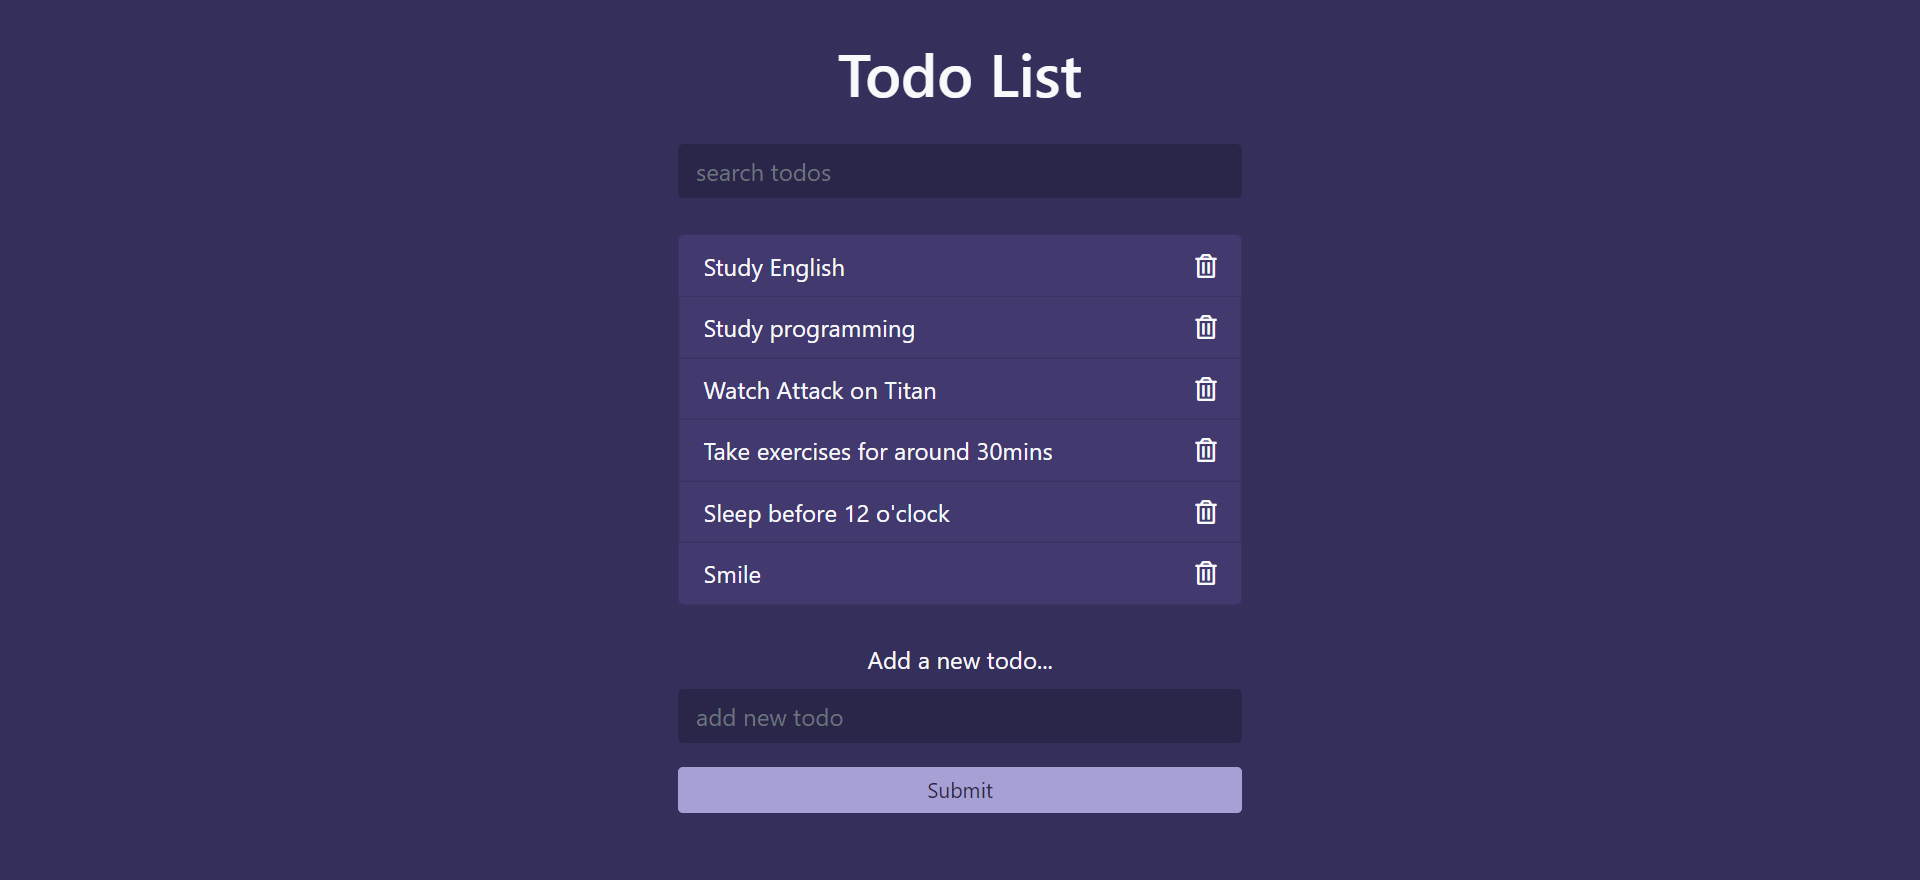
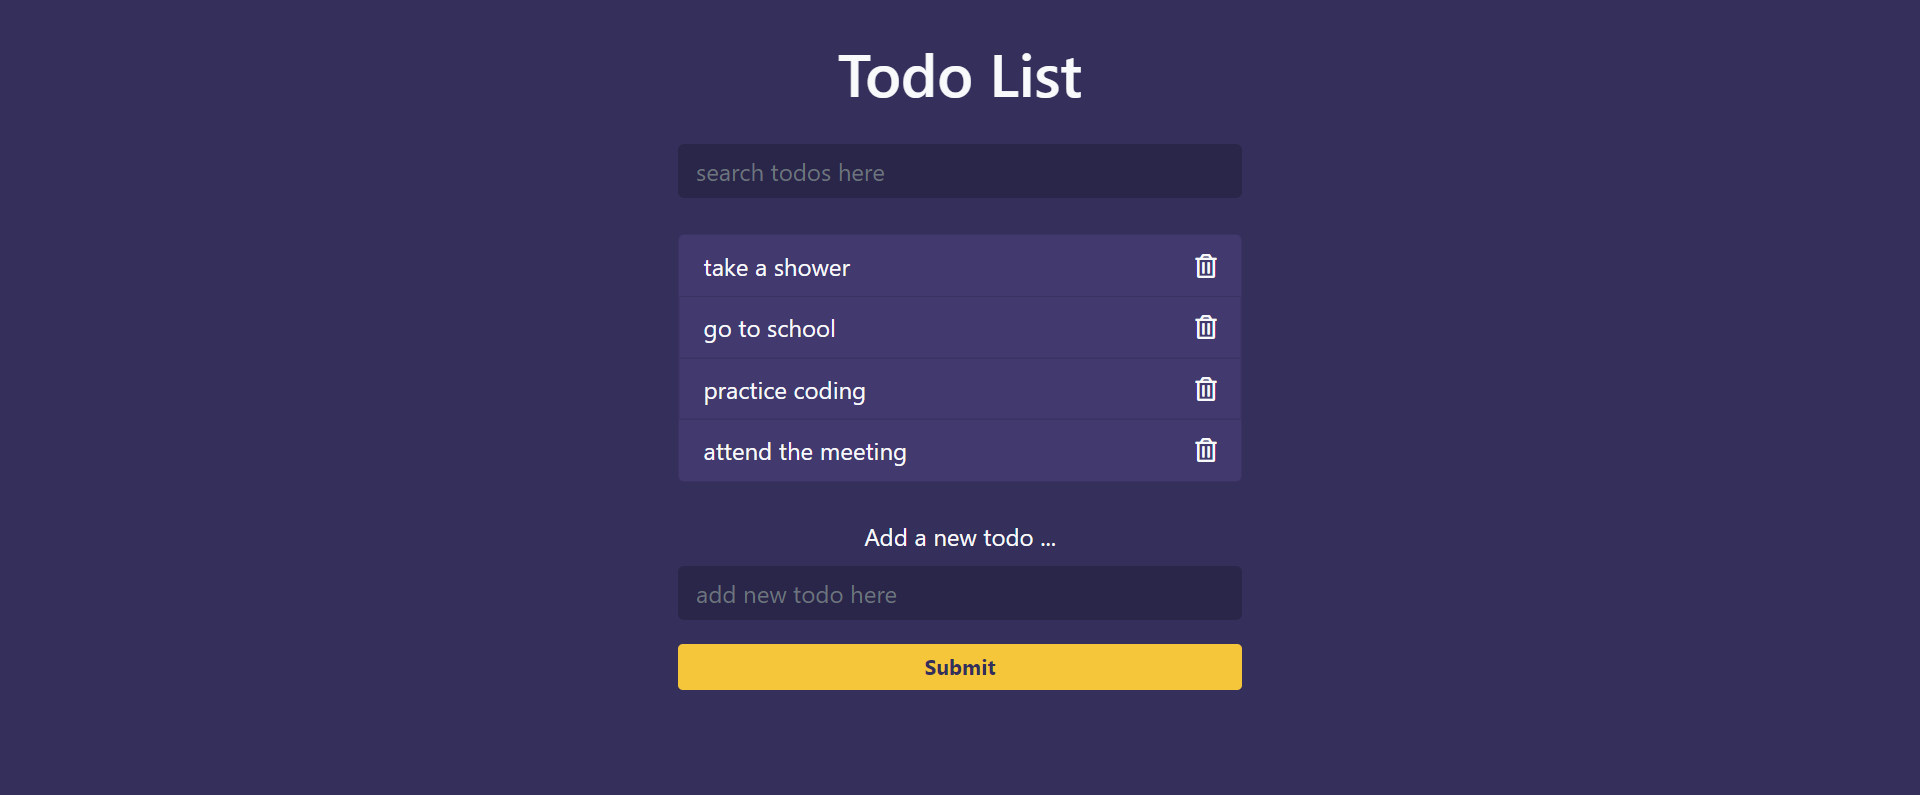
changed the color of the submit button

diff --git a/index.html b/index.html
@@ -8,7 +8,7 @@
     <!-- CSS only -->
     <link href="https://cdn.jsdelivr.net/npm/bootstrap@5.1.3/dist/css/bootstrap.min.css" rel="stylesheet" integrity="sha384-1BmE4kWBq78iYhFldvKuhfTAU6auU8tT94WrHftjDbrCEXSU1oBoqyl2QvZ6jIW3" crossorigin="anonymous">
     <link rel="stylesheet" href="styles.css">
-    <title>Document</title>
+    <title>Todo</title>
 </head>
 <body>
 
@@ -16,41 +16,20 @@
         <header class="text-center text-light my-4">
             <h1 class="mb-4">Todo List</h1>
             <form class="search">
-                <input class="form-control m-auto" placeholder="search todos" type="text" name="" id="">
+                <input class="form-control m-auto" placeholder="search todos here" type="text" name="" id="">
             </form>
         </header>
 
-        <ul class="list-group todos">
-            <li class="list-group-item d-flex justify-content-between text-light align-items-center">
-                <span>Study English</span>
-                <i class="far fa-trash-alt delete"></i>
-            </li>
-            <li class="list-group-item d-flex justify-content-between text-light align-items-center">
-                <span>Study Programming</span>
-                <i class="far fa-trash-alt delete"></i>
-            </li>
-            <li class="list-group-item d-flex justify-content-between text-light align-items-center">
-                <span>Watch Attack on Titan</span>
-                <i class="far fa-trash-alt delete"></i>
-            </li>
-            <li class="list-group-item d-flex justify-content-between text-light align-items-center">
-                <span>Take exercises for around 30mins</span>
-                <i class="far fa-trash-alt delete"></i>
-            </li>
-            <li class="list-group-item d-flex justify-content-between text-light align-items-center">
-                <span>Sleep before 12 o'clock</span>
-                <i class="far fa-trash-alt delete"></i>
-            </li>
-            <li class="list-group-item d-flex justify-content-between text-light align-items-center">
-                <span>Smile</span>
-                <i class="far fa-trash-alt delete"></i>
+        <ul class="list-group todos my-2">
+            <li class="list-group-item d-flex justify-content-between text-light align-items-center intro-list">
+                <span>Your todos will list here</span>
             </li>
         </ul>
 
         <form class="add text-center my-4">
-            <label class="text-light mb-2">Add a new todo...</label>
-            <input class="form-control m-auto" type="text" name="add" id="" placeholder="add new todo">
-            <div class=" d-grid ">
+            <label class="text-light mb-2">Add a new todo ...</label>
+            <input class="form-control m-auto" type="text" name="add" id="" placeholder="add new todo here">
+            <div class="d-grid">
                 <input class="btn btn-sm my-3" type="submit">
             </div>
         </form>

diff --git a/script.js b/script.js
@@ -1,6 +1,8 @@
 let add_todo = document.querySelector(".add");
 let todo_list = document.querySelector(".todos");
 let search = document.querySelector(".search input");
+let intro = todo_list.children[0];
+let local = [];
 
 function create_template(todo) {
     return `
@@ -11,18 +13,68 @@ function create_template(todo) {
     `;    
 }
 
+function get_local_storage(key) {
+    return JSON.parse(localStorage.getItem(key))
+}
+
+function set_local_storage(key) {
+    localStorage.setItem("todo", JSON.stringify(key));
+}
+
+// check if there's todo in localstorage or not 
+// if it is there, consturct li tags according to that elements
+// or not, initialize the new local storage
+if(!localStorage.getItem("todo")) {
+    localStorage.setItem("todo", JSON.stringify([]));
+}
+else {
+    local = JSON.parse(localStorage.getItem("todo"));
+    if(local.length != 0) {
+        intro.remove();
+    }
+    local.forEach(item => {
+        todo_list.innerHTML += create_template(item);
+    })
+}
+
 //adding a new todo list 
 add_todo.addEventListener("submit", (e) => {
     e.preventDefault();
     let new_todo = add_todo.add.value.trim();
-    todo_list.innerHTML += create_template(new_todo);
+    if (new_todo) {
+        local = get_local_storage("todo");
+        if(intro) {
+            intro.remove(); 
+        }
+        local.push(new_todo);
+        set_local_storage(local);
+        todo_list.innerHTML += create_template(new_todo);
+    }
     add_todo.reset();
 });
 
 //delete an existing todo list
 todo_list.addEventListener("click", e => {
+    let del = "";
+    let dex = 0;
     if (Array.from(e.target.classList).includes("delete")) {
+        del = e.target.parentElement.textContent.trim();
+        Array.from(e.target.parentElement.parentElement.children).forEach((item, index) => {
+            if (e.target.parentElement == item) {
+                dex = index;
+            }
+        });
         e.target.parentElement.remove();
+        if(!Array.from(todo_list.children).length) {
+            todo_list.append(intro);
+        }
+        local = get_local_storage("todo");
+        let filtered = local.filter((item, index) =>  {
+            return (item != del && index != dex) || (item == del && index != dex)
+        });
+
+        set_local_storage(filtered);
+
     }
 });
 

diff --git a/styles.css b/styles.css
@@ -19,6 +19,12 @@ input[type=text]:focus {
     max-width: 400px;
 }
 
+input[type=submit] {
+    font-weight: bold;
+    background-color: #f5c63a;
+    color: #352F5B;
+}
+
 .todos li {
     background: #423a6f;
 }
